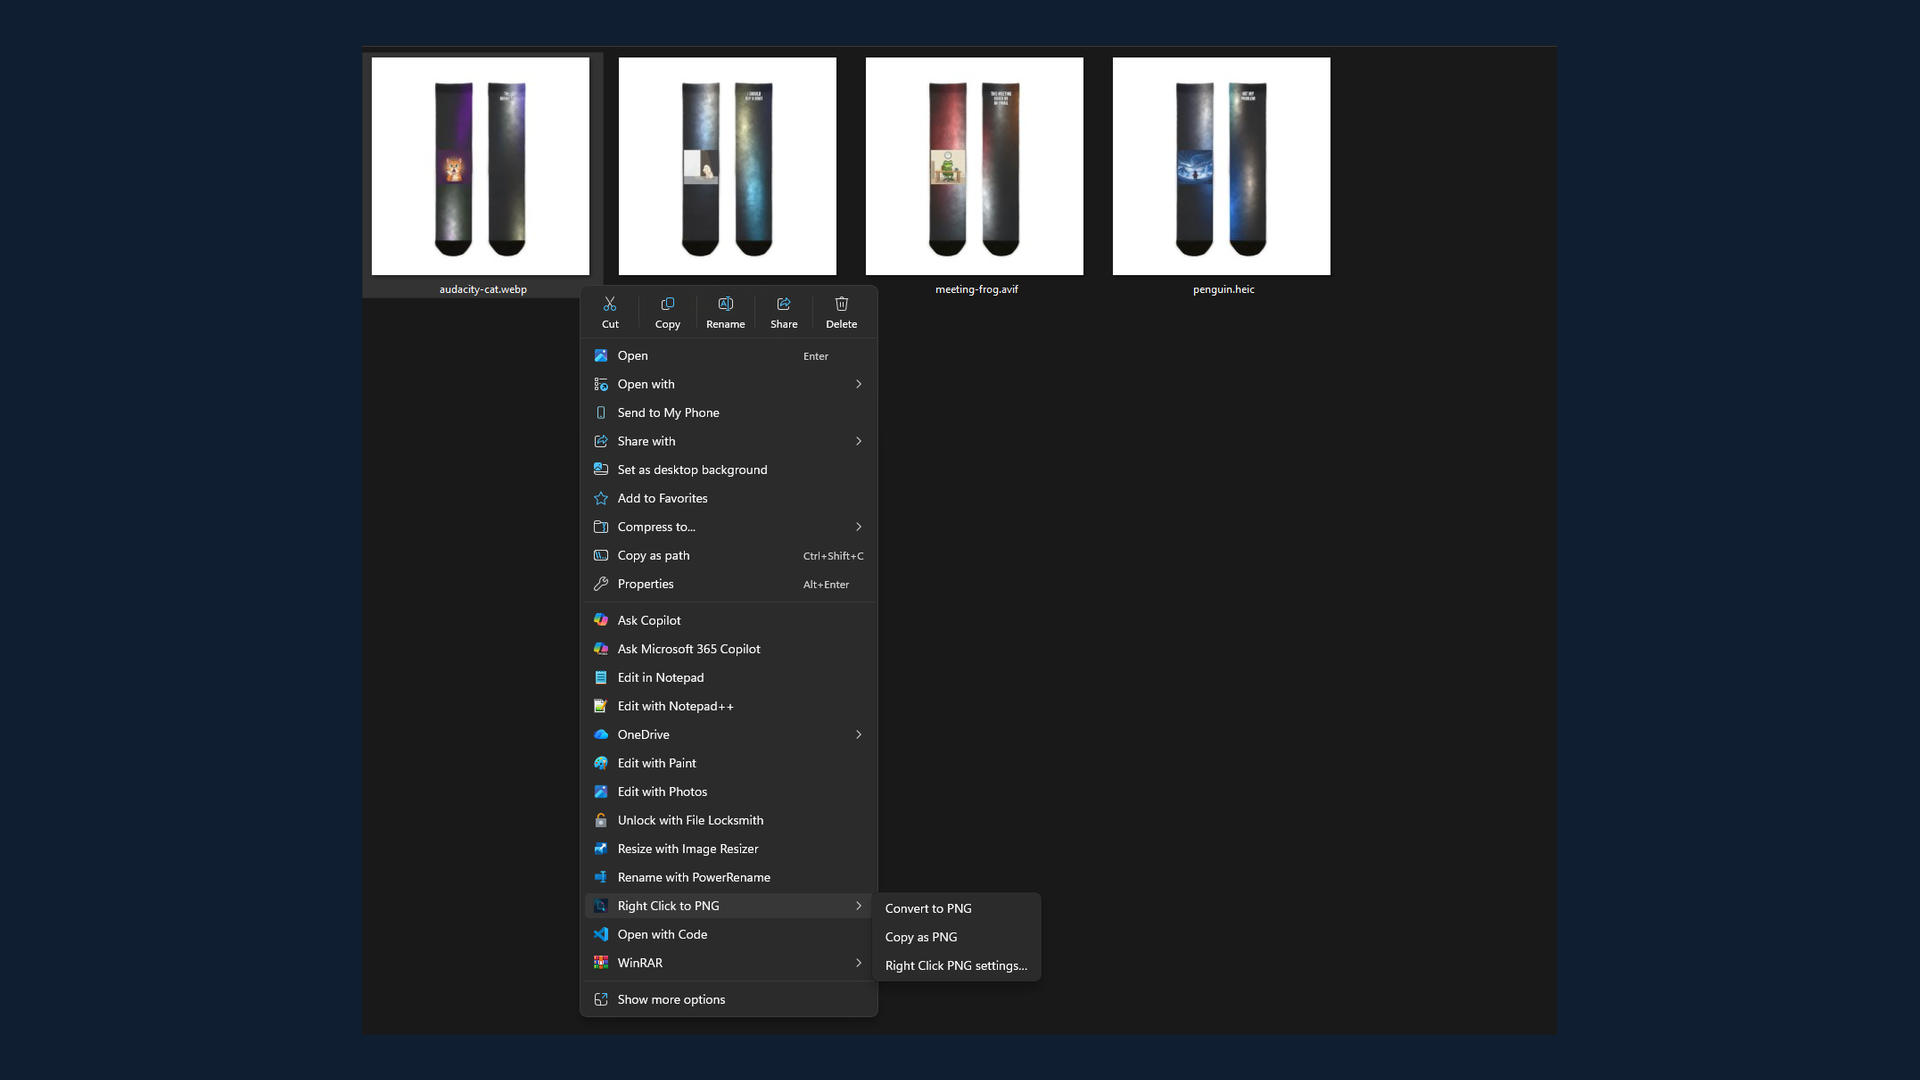
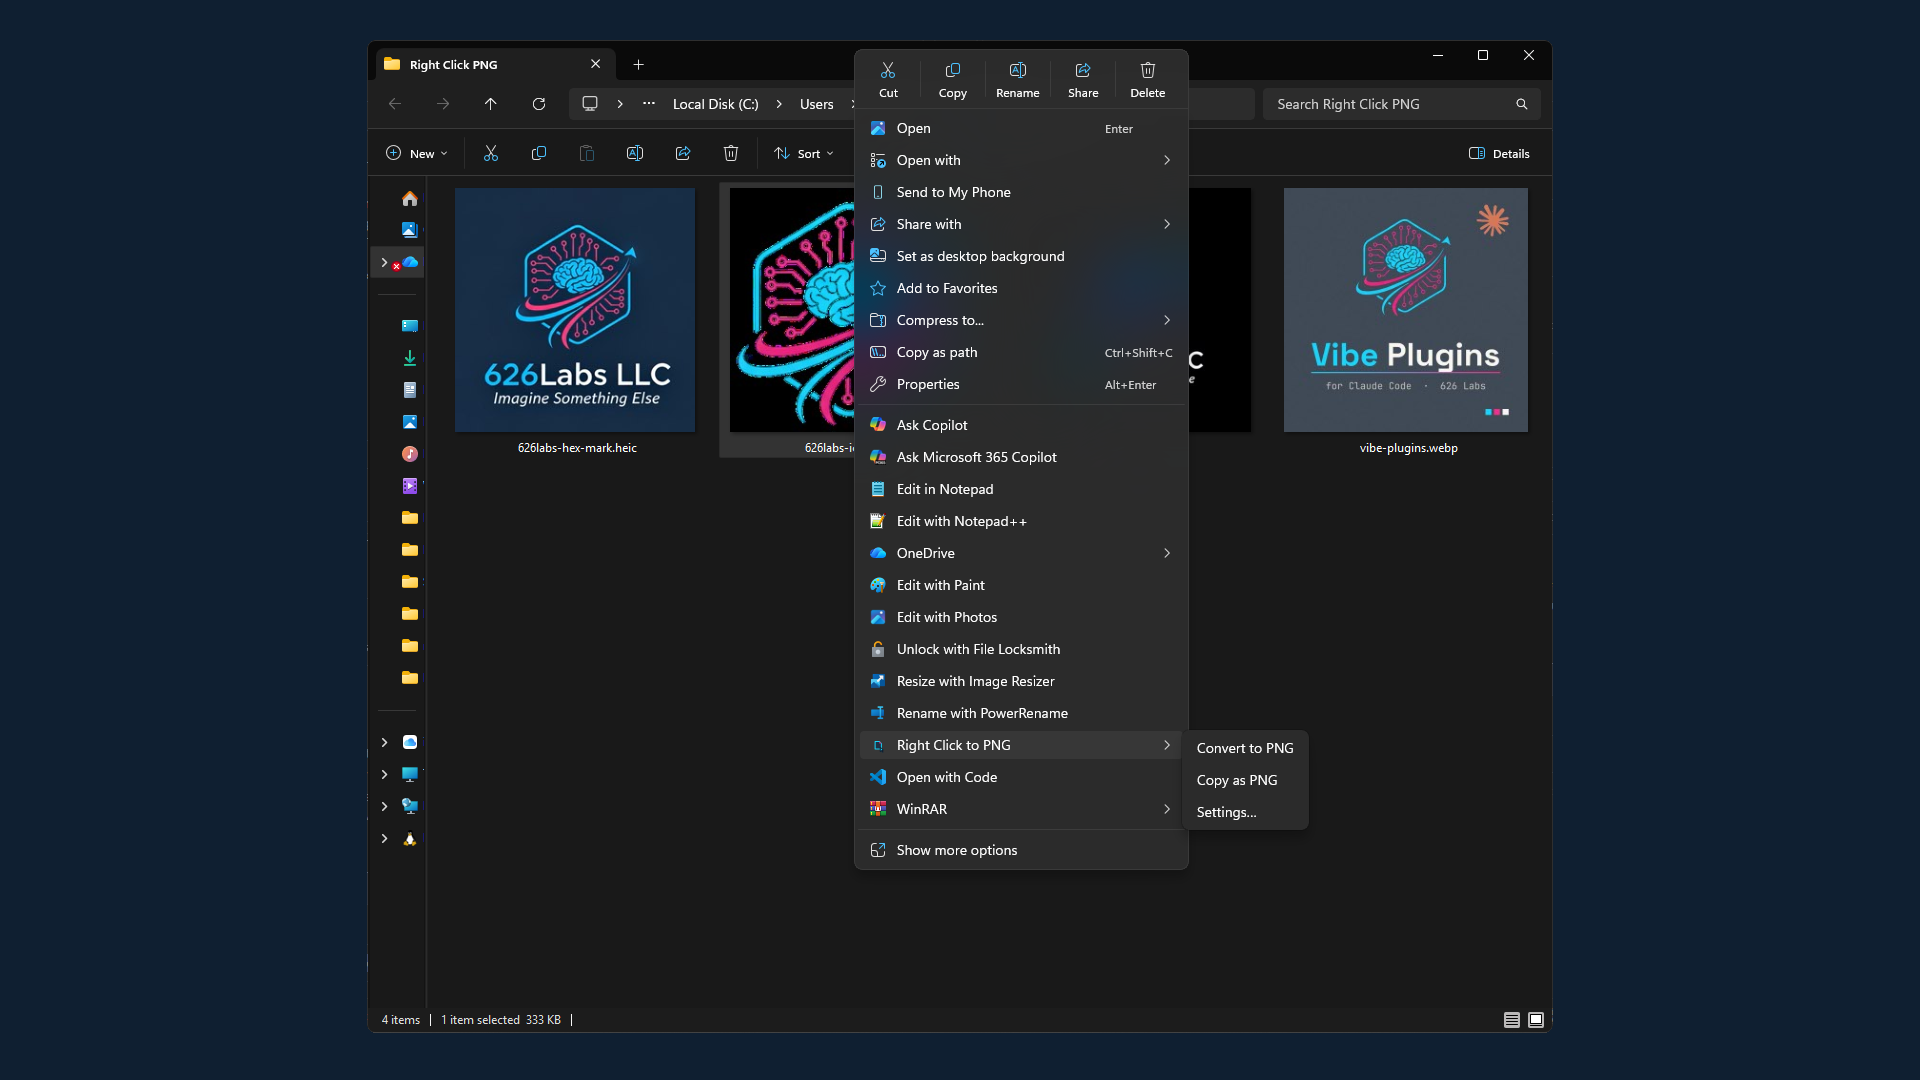
docs(screenshots): 0.1.2.0 Store set, captured 2026-10-13
Retaken for the grouped Right Click to PNG menu and its new icon (01, 05),
with 626 Labs brand art in a neutral C:\Users\Public demo folder so no
username appears in the toast or address bar. Full File Explorer windows
composited on brand navy. Every capture doubled as a smoke test on a signed
install. Captions approved 2026-10-11 still fit.

Changed region(s): [[0.1875, 0.0306, 0.8125, 0.9472], [0.1875, 0.6722, 0.2188, 0.7639], [0.7812, 0.9167, 0.8125, 0.9778]]

diff --git a/docs/screenshots/README.md b/docs/screenshots/README.md
@@ -1,14 +1,24 @@
 # Right Click PNG screenshots (Microsoft Store + 626labs.dev)
 
-1920x1080 PNGs captured on Windows 11 (dark mode) on 2026-10-11, in Store carousel order.
-This is the five-shot plan from `docs/ms-store-submission-playbook.md`, executed, with the
-batch as two frames. The Store captions map to files by position; the canonical,
-approval-tracked copy lives in `store-listing-console/apps/rtclickpng/copy/listing-copy.md`
-(approved 2026-10-11, not yet submitted).
+1920x1080 PNGs captured on Windows 11 (dark mode) on 2026-10-13 against the 0.1.2.0 build, in
+Store carousel order. Each capture was also a smoke test of its flow on a signed install.
+The Store captions map to files by position; the canonical, approval-tracked copy lives in
+`store-listing-console/apps/rtclickpng/copy/listing-copy.md` (approved 2026-10-11; still fits).
 
-1. `01-right-click-menu.png`: the File Explorer menu on a .webp, submenu open
+1. `01-right-click-menu.png`: the File Explorer menu on a .webp, the Right Click to PNG flyout open
 2. `02-converted-in-place.png`: the new .png beside the original, with the toast
 3. `03-copy-as-png-paste.png`: Copy as PNG on a .heic, pasted into Paint
-4. `04-settings.png`: the settings window (cropped above the settings-file path line)
-5. `05-batch-selection.png`: .webp, .avif and .heic selected, menu open
+4. `04-settings.png`: the settings window, cut above the settings-file path line, scaled 2x
+5. `05-batch-selection.png`: .webp, .avif and .heic selected, flyout open (Copy hides on multi-select)
 6. `06-batch-done.png`: the batch result and its summary toast
+
+## How these were made
+
+- **Source images** are 626 Labs brand art from LabShare (`AssetRoundup/brand`, `626labs-assets/logos`),
+  encoded to .webp and .avif with ffmpeg and to .heic with pillow-heif.
+- **Demo folder** is `C:\Users\Public\Pictures\Right Click PNG`. The toast and the address bar show
+  the folder path, so a folder under a user profile would put a username in a public screenshot.
+- **Composited** on the brand navy `#0F1F31`: the real File Explorer, Paint and Settings windows, with
+  the menu panels and toasts cut from the same captures along their measured edges. Nothing is redrawn.
+- **Turn off Do not disturb before capturing.** Windows' automatic quiet hours swallowed the toast
+  banners mid-session; the conversions still ran, only the banner was held.
